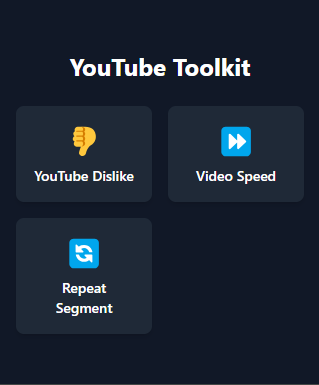
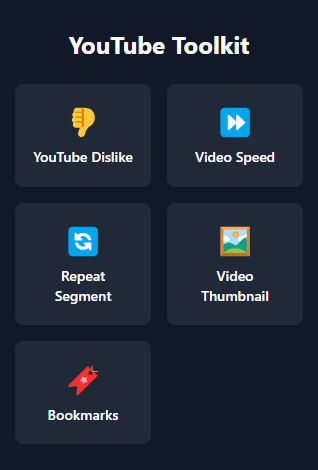
README updated

diff --git a/README.md b/README.md
@@ -12,6 +12,8 @@ This Extension contains some useful tools to use while Using YouTube!
     > Repeat Specific Segment of the Video. (For example, from 00:10:22 to 00:11:20. It will repeat the segments as long as you want!)
 -   ### Thumbnail Download
     > Download the Thumbnail of the video in different Resolution.
+-   ### Video Bookmarks
+    > Save your Video's specific times as Bookmarks!
 -   ### MORE INCOMING!!!
 
 ## Screenshots!
@@ -21,6 +23,7 @@ This Extension contains some useful tools to use while Using YouTube!
 ![Video Speed](screenshots/speed.png)
 ![Repeat Segments](screenshots/segments.png)
 ![Video Thumbnail](screenshots/thumbnail.png)
+![Video Bookmarks](screenshots/bookmarks.png)
 
 ## How to Use?
 
